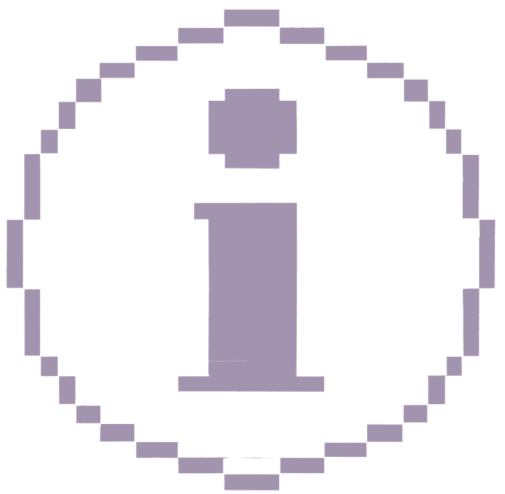
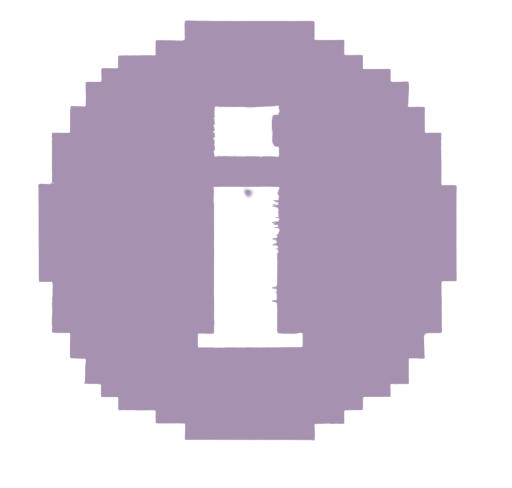
refactor: update images and set footer

diff --git a/pages/index.tsx b/pages/index.tsx
@@ -3,6 +3,7 @@ import Head from "next/head";
 import { Box, Heading, Image, Link, Text } from "@chakra-ui/react";
 
 import TestnetDisclaimer from "../components/disclaimer-testnet";
+import AnimatedUpDown from "../components/ui/animated-updown";
 import ContainerPage from "../components/ui/container-page";
 import { CantoTestnetNetwork } from "../config/addresses";
 import Layout from "../layout/Layout";
@@ -25,7 +26,12 @@ const HomePage = () => {
           {process.env.NEXT_PUBLIC_NETWORK === CantoTestnetNetwork && (
             <TestnetDisclaimer />
           )}
-          <Image m="auto" src="/static/images/man.png" maxW={20} maxH={20} />
+          <Image
+            m="auto"
+            src="/static/images/greeting.png"
+            maxW={20}
+            maxH={20}
+          />
           <Heading>Welcome to cantodao</Heading>
           <Box display="flex" flexDirection="row" alignItems="center">
             <Text
@@ -38,10 +44,20 @@ const HomePage = () => {
             >
               {welcomeText}
             </Text>
-            <Image m="auto" src="/static/images/space.png" w={500} />
+            <AnimatedUpDown height={50} duration={1000}>
+              <Image m="auto" src="/static/images/space.png" w={300} />
+            </AnimatedUpDown>
           </Box>
           <Box display="flex" flexDirection="row" alignItems="flex-end">
-            <Image m="auto" src="/static/images/beach.png" w={300} />
+            <AnimatedUpDown
+              width={150}
+              margin="auto"
+              height={60}
+              duration={800}
+            >
+              <Image m="auto" src="/static/images/ship1.png" w={150} />
+            </AnimatedUpDown>
+
             <Box ml="40px" mt="20" mb="20" w={600}>
               <Text textAlign="left" fontSize="40px">
                 Getting started

diff --git a/pages/explore.tsx b/pages/explore.tsx
@@ -1,15 +1,18 @@
-import Head from "next/head";
+import Head from 'next/head';
 
-import { Box } from "@chakra-ui/react";
+import { Box } from '@chakra-ui/react';
 
-import { Daos } from "../components/dao/daos";
-import { FactoryDAOs } from "../components/dao/factory-daos";
-import { ExploreInfo } from "../components/info/explore";
-import InfoBox from "../components/infobox";
-import ContainerPage from "../components/ui/container-page";
-import PageHeader from "../components/ui/page-header";
-import { GetDaoFactoryAddress, GetDaoListAddresses } from "../config/addresses";
-import Layout from "../layout/Layout";
+import { Daos } from '../components/dao/daos';
+import { FactoryDAOs } from '../components/dao/factory-daos';
+import { ExploreInfo } from '../components/info/explore';
+import InfoBox from '../components/infobox';
+import ContainerPage from '../components/ui/container-page';
+import PageHeader from '../components/ui/page-header';
+import {
+  GetDaoFactoryAddress,
+  GetDaoListAddresses,
+} from '../config/addresses';
+import Layout from '../layout/Layout';
 
 const ExplorePage = () => {
   const daoList = GetDaoListAddresses();
@@ -27,7 +30,7 @@ const ExplorePage = () => {
           <Box display="flex" flexDirection="row" alignItems="flex-start">
             <PageHeader
               title="Explore DAOs"
-              imgSource="/static/images/ship.png"
+              imgSource="/static/images/explorer.png"
               mr={4}
             />
             <InfoBox heading="Explore DAOs">

diff --git a/pages/dao/[address].tsx b/pages/dao/[address].tsx
@@ -48,7 +48,7 @@ const DaoPage = () => {
                   <Box ml={20} w="100%">
                     <PageHeader
                       title="Treasury"
-                      imgSource="/static/images/chest.png"
+                      imgSource="/static/images/cart.png"
                     />
                     <BoxW w="100%" mb="40px">
                       <ContainerSpaced>
@@ -68,7 +68,7 @@ const DaoPage = () => {
                     </BoxW>
                     <PageHeader
                       title="Membership"
-                      imgSource="/static/images/fist.png"
+                      imgSource="/static/images/cosmonaut.png"
                     />
                     <BoxW w="100%">
                       <ContainerSpaced>
@@ -81,7 +81,7 @@ const DaoPage = () => {
                 <Box display="flex" flexDirection="row" alignItems="center">
                   <PageHeader
                     title="Proposals"
-                    imgSource="/static/images/scroll.png"
+                    imgSource="/static/images/satellite.png"
                   />
                   <Link href={"/create/proposal/" + address}>
                     <Button fontSize="20px" m="auto">

diff --git a/components/infobox.tsx b/components/infobox.tsx
@@ -1,6 +1,7 @@
 import { useState } from "react";
 
 import {
+  Button,
   Image,
   Modal,
   ModalBody,
@@ -10,8 +11,6 @@ import {
   ModalHeader,
   ModalOverlay,
 } from "@chakra-ui/react";
-
-import Button from "./ui/button";
 
 const InfoBox = ({ children, heading }: { children: any; heading: string }) => {
   const [showModal, setShowModal] = useState(false);
@@ -23,12 +22,15 @@ const InfoBox = ({ children, heading }: { children: any; heading: string }) => {
   return (
     <>
       <Button
+        bg="dark"
+        _hover={{ bg: "dark" }}
+        _active={{ bg: "dark" }}
         borderWidth="0px"
         borderRadius="50%"
         w={10}
         onClick={() => setShowModal(true)}
       >
-        <Image src="/static/images/info.png" minH={10} minW={10} />
+        <Image src="/static/images/info.png" minH={8} minW={8} />
       </Button>
       {showModal && (
         <Modal isOpen onClose={handleClose}>

diff --git a/components/ui/animated-updown.tsx b/components/ui/animated-updown.tsx
@@ -1,0 +1,33 @@
+import { useEffect, useState } from "react";
+
+import { animated, useSpring } from "react-spring";
+
+const AnimatedUpDown = ({ children, duration, height, ...props }: any) => {
+  const [isToggled, setToggled] = useState(false);
+
+  const { y } = useSpring({
+    y: isToggled ? height || 80 : 0,
+    config: { duration: duration || 1000 },
+    reverse: isToggled,
+  });
+
+  useEffect(() => {
+    const intervalId = setInterval(() => {
+      setToggled(!isToggled);
+    }, duration || 1000);
+    return () => clearInterval(intervalId);
+  }, [isToggled]);
+
+  return (
+    <animated.div
+      style={{
+        transform: y.to((y: number) => `translate3d(0, ${y}%, 0)`),
+        ...props,
+      }}
+    >
+      {children}
+    </animated.div>
+  );
+};
+
+export default AnimatedUpDown;

diff --git a/layout/Footer.tsx b/layout/Footer.tsx
@@ -1,15 +1,27 @@
-import { Box } from "@chakra-ui/react";
+import { FaGithub } from "react-icons/fa";
+
+import { Box, Icon, Link, Text } from "@chakra-ui/react";
 
 // TODOHERE: implement regular footer
 const Footer = () => {
   return (
     <Box
       as="footer"
-      backgroundColor={"dark"}
+      backgroundColor={"darker"}
       textAlign="center"
-      p={20}
+      width="100%"
+      p={10}
+      top="100vh"
       bottom={0}
-    ></Box>
+      marginTop={20}
+    >
+      <Text>
+        cantodao |{" "}
+        <Link href="https://github.com/lumtis/cantodao">
+          <Icon as={FaGithub} color={"primary"} />
+        </Link>
+      </Text>
+    </Box>
   );
 };
 

diff --git a/config/theme.ts b/config/theme.ts
@@ -1,4 +1,4 @@
-import { extendTheme } from '@chakra-ui/react';
+import { extendTheme } from "@chakra-ui/react";
 
 export const defaultThemeObject = {
   components: {
@@ -28,6 +28,7 @@ export const defaultThemeObject = {
   },
   colors: {
     dark: "#17141c",
+    darker: "#131019",
     primary: "#a692b0",
     secondary: "#a692b0",
     primarydark: "#766280",

diff --git a/pages/create/dao.tsx b/pages/create/dao.tsx
@@ -32,7 +32,7 @@ const CreateDAOPage = () => {
         <Box>
           <PageHeader
             title="Recently deployed (last 4 hours)"
-            imgSource="/static/images/satellite.png"
+            imgSource="/static/images/ship2.png"
           />
           <Box m="auto">
             <RecentlyDeployed blockCount={BLOCK_COUNT} />

diff --git a/layout/Layout.tsx b/layout/Layout.tsx
@@ -8,7 +8,7 @@ const Layout = ({ children }: any) => {
   return (
     <>
       <Header />
-      <Box pt="10" backgroundColor={"dark"}>
+      <Box pt="10" backgroundColor={"dark"} minH="100vh">
         {children}
       </Box>
       <Footer />
